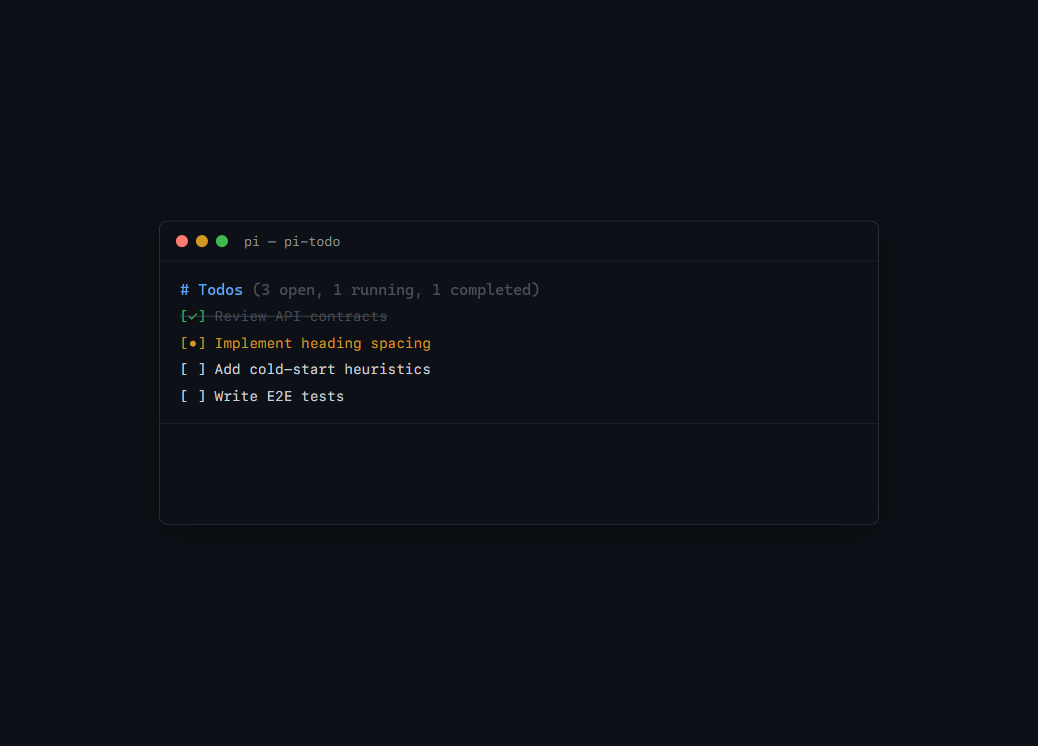
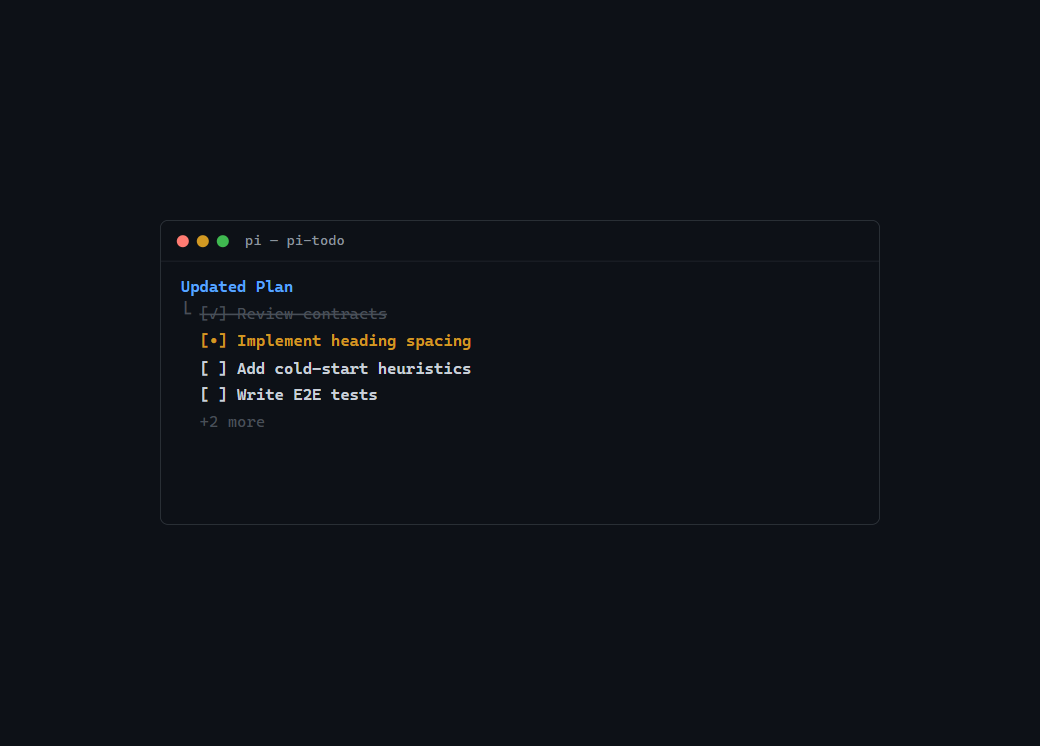
feat: Updated Plan UI with └ tree connector and tighter spacing
- Overlay heading changed from '# Todos (...)' to 'Updated Plan' (no counts)
- First todo item prefixed with └, subsequent items with 2-space indent
- Removed blank-line gap between heading and list items
- Updated media/screenshot.html + new screenshot.png
- Updated src/index.ts doc comment

Changed region(s): [[0.1541, 0.37, 0.4624, 0.5858], [0.2158, 0.3083, 0.3391, 0.3391], [0.4316, 0.37, 0.5241, 0.4008]]

diff --git a/src/format.ts b/src/format.ts
@@ -2,7 +2,7 @@ import type { Theme } from "@earendil-works/pi-coding-agent";
 import { truncateToWidth } from "@earendil-works/pi-tui";
 import type { TodoItem, TodoStatus } from "./types.js";
 import { MAX_OVERLAY_LINES, MAX_RESULT_LINES } from "./types.js";
-import { countCompletedTodos, countOpenTodos, countRunningTodos, hasOpenTodos } from "./validate.js";
+import { hasOpenTodos } from "./validate.js";
 
 
 export function getTodoMarker(status: TodoStatus): string {
@@ -121,31 +121,26 @@ export function renderOverlayLines(
 
   const maxLines = Math.max(1, options.maxLines ?? MAX_OVERLAY_LINES);
   const truncate = (line: string) => truncateToWidth(line, width, "…");
-  const open = countOpenTodos(todos);
-  const running = countRunningTodos(todos);
-  const completed = countCompletedTodos(todos);
-  const heading = truncate(
-    theme.fg("accent", theme.bold("# Todos")) +
-      theme.fg("dim", ` (${open} open, ${running} running, ${completed} done)`),
-  );
+  const heading = truncate(theme.fg("accent", theme.bold("Updated Plan")));
 
-  // Small gap between heading and first row — budget -1 to account for the blank line
+  // Tight spacing: heading directly above the tree branch (no blank line gap)
   const layout = selectOverlayLayout(todos, Math.max(3, maxLines - 1));
-  const lines: string[] = [heading, ""];
+  const lines: string[] = [heading];
 
-  for (const todo of layout.visible) {
-    lines.push(truncate(formatThemedTodoLine(todo, theme)));
+  const FIRST = "└ ";
+  const NEXT = "  ";
+  for (let i = 0; i < layout.visible.length; i++) {
+    const prefix = i === 0 ? FIRST : NEXT;
+    lines.push(truncate(prefix + formatThemedTodoLine(layout.visible[i], theme)));
   }
   if (layout.pinnedActive) {
     lines.push(
-      truncate(theme.fg("warning", `Active: ${formatPlainTodoLine(layout.pinnedActive)}`)),
+      truncate(NEXT + theme.fg("warning", `Active: ${formatPlainTodoLine(layout.pinnedActive)}`)),
     );
   }
   if (layout.hiddenCount > 0) {
-    lines.push(truncate(theme.fg("dim", `+${layout.hiddenCount} more`)));
+    lines.push(truncate(NEXT + theme.fg("dim", `+${layout.hiddenCount} more`)));
   }
   lines.push("");
-  // Layout reserves content rows, but the heading and trailing spacer are
-  // rendered here. Enforce the public maxLines contract at the final boundary.
   return lines.slice(0, maxLines);
 }

diff --git a/tests/overlay.test.ts b/tests/overlay.test.ts
@@ -159,12 +159,12 @@ describe("renderOverlayLines", () => {
       identityTheme,
       80,
     );
-    expect(lines[0]).toBe("# Todos (2 open, 1 running, 1 done)");
+    expect(lines[0]).toBe("Updated Plan");
   });
 
   it("shows correct counts with no completed work", () => {
     const lines = renderOverlayLines([t("a", "pending"), t("b", "pending")], identityTheme, 80);
-    expect(lines[0]).toBe("# Todos (2 open, 0 running, 0 done)");
+    expect(lines[0]).toBe("Updated Plan");
   });
 
   it("excludes completed and cancelled items from open/running counts", () => {
@@ -179,7 +179,7 @@ describe("renderOverlayLines", () => {
       identityTheme,
       80,
     );
-    expect(lines[0]).toBe("# Todos (3 open, 1 running, 1 done)");
+    expect(lines[0]).toBe("Updated Plan");
   });
 
   it("has a minimal blank-line gap between heading and first todo row", () => {
@@ -188,9 +188,9 @@ describe("renderOverlayLines", () => {
       identityTheme,
       80,
     );
-    expect(lines[0]).toContain("# Todos");
-    expect(lines[1]).toBe("");
-    expect(lines[2]).toMatch(/^\[/);
+    expect(lines[0]).toContain("Updated Plan");
+    expect(lines[1]).toMatch(/^└ /);
+    expect(lines[2]).toMatch(/^  /);
   });
 
   it("returns empty when no open work (never shows 0 open heading)", () => {
@@ -213,7 +213,7 @@ describe("renderOverlayLines", () => {
       { maxLines: 5 },
     );
     expect(lines).toHaveLength(5);
-    expect(lines).toContain("Active: [•] active");
+    expect(lines).toContain("  Active: [•] active");
     expect(lines.some((line) => line.includes("+2 more"))).toBe(true);
   });
 
@@ -279,9 +279,9 @@ describe("selectOverlayLayout overflow edge cases", () => {
         t("next", "pending"),
       ];
       const lines = renderOverlayLines(todos, identityTheme, 80, { maxLines: 5 });
-      expect(lines).toContain("[✓] done-1");
-      expect(lines).toContain("Active: [•] active");
-      expect(lines).not.toContain("[✓] done-2");
+      expect(lines).toContain("└ [✓] done-1");
+      expect(lines).toContain("  Active: [•] active");
+      expect(lines).not.toContain("└ [✓] done-2");
     });
 
     it("preserves completed work before the active follow-up when all items fit", () => {

diff --git a/media/screenshot.html b/media/screenshot.html
@@ -80,7 +80,7 @@
     .title { letter-spacing: 0.01em; }
 
     .content {
-      padding: 16px 20px;
+      padding: 12px 20px;
       font-size: 16px;
       font-weight: 600;
       line-height: 27px;
@@ -88,10 +88,11 @@
     }
 
     .heading { color: var(--accent); }
-    .counts { color: var(--muted); font-weight: 400; }
-    .completed { color: var(--success); font-weight: 400; }
+    .tree { color: var(--muted); }
+    .completed { color: var(--muted); font-weight: 400; text-decoration: line-through; }
     .active { color: var(--warning); }
     .pending { color: var(--text); }
+    .dim { color: var(--muted); font-weight: 400; }
   </style>
 </head>
 <body>
@@ -102,11 +103,12 @@
         <span class="traffic-lights" aria-hidden="true"><span></span><span></span><span></span></span>
         <span class="title">pi — pi-todo</span>
       </header>
-      <div class="content"><span class="heading"># Todos</span><span class="counts"> (3 open, 1 running, 1 completed)</span>
-<span class="completed">[✓] Review contracts</span>
-<span class="active">[•] Implement heading spacing</span>
-<span class="pending">[ ] Add cold-start heuristics</span>
-<span class="pending">[ ] Write E2E tests</span></div>
+      <div class="content"><span class="heading">Updated Plan</span>
+<span class="tree">└ </span><span class="completed">[✓] Review contracts</span>
+<span class="tree">  </span><span class="active">[•] Implement heading spacing</span>
+<span class="tree">  </span><span class="pending">[ ] Add cold-start heuristics</span>
+<span class="tree">  </span><span class="pending">[ ] Write E2E tests</span>
+<span class="dim">  +2 more</span></div>
     </section>
   </main>
 </body>

diff --git a/tests/integration.test.ts b/tests/integration.test.ts
@@ -136,9 +136,9 @@ describe("validate→store→format integration", () => {
     ]);
 
     const lines = renderOverlayLines(getTodos(), identityTheme, 80);
-    expect(lines[0]).toBe("# Todos (2 open, 1 running, 1 done)");
-    expect(lines).toContain("[•] active");
-    expect(lines).toContain("[ ] next");
+    expect(lines[0]).toBe("Updated Plan");
+    expect(lines).toContain("  [•] active");
+    expect(lines).toContain("  [ ] next");
   });
 
   it("overlay hides when all items from store are terminal", () => {
@@ -174,7 +174,7 @@ describe("validate→store→format integration", () => {
     ]);
 
     const lines = renderOverlayLines(getTodos(), identityTheme, 80, { maxLines: 4 });
-    expect(lines).toContain("[•] active");
+    expect(lines).toContain("└ [•] active");
     expect(lines.some((l) => l.includes("+5 more"))).toBe(true);
   });
 });

diff --git a/src/index.ts b/src/index.ts
@@ -3,7 +3,7 @@
  *
  * Tools: todo_write (full replace), todo_update (patch by ID), todo_read,
  *        todo_diagnose (read-only)
- * Overlay: # Todos with [ ]/[•]/[✓]/[×] above the editor
+ * Overlay: Updated Plan tree with [ ]/[•]/[✓]/[×] above the editor
  * Persistence: toolResult details + custom entry, replayed from branch
  * Reminder: pi-tasks-style cadence → transient <system-reminder> via context
  * Cold start: pi-todotools section + prompt-aware one-shot context nudge

diff --git a/CHANGELOG.md b/CHANGELOG.md
@@ -1,5 +1,16 @@
 # Changelog
 
+## 0.6.0 (2026-07-27)
+
+### Changed
+
+- **Overlay redesigned**: heading changed from `# Todos (...open, ...running,
+  ...done)` to `"Updated Plan"` (no counts). Items now use a tree-branch
+  layout with `└` connector on the first item and `  ` indentation on
+  subsequent items. Removed blank-line gap between heading and list.
+- **Screenshot updated**: `media/screenshot.html` and `media/screenshot.png`
+  updated to match the new overlay UI.
+
 ## 0.5.0 (2026-07-27)
 
 ### Added
